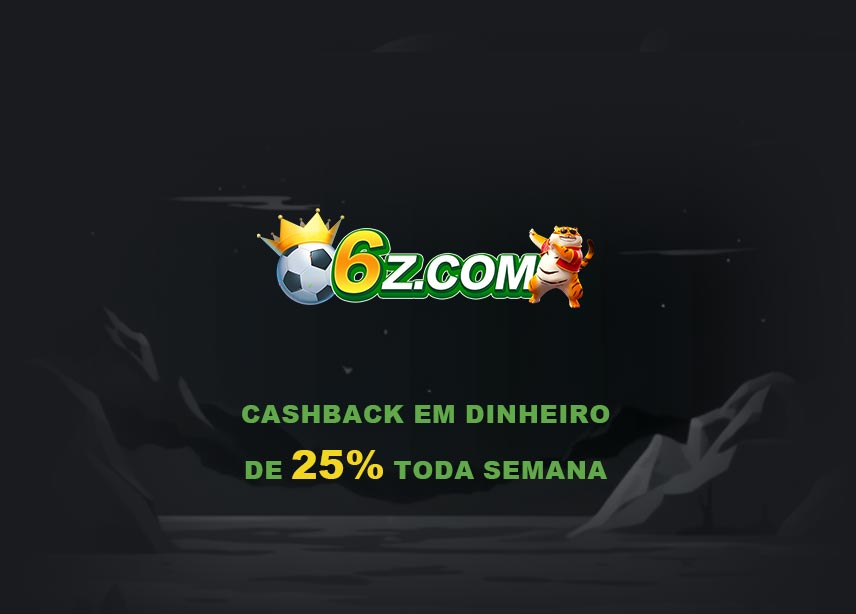
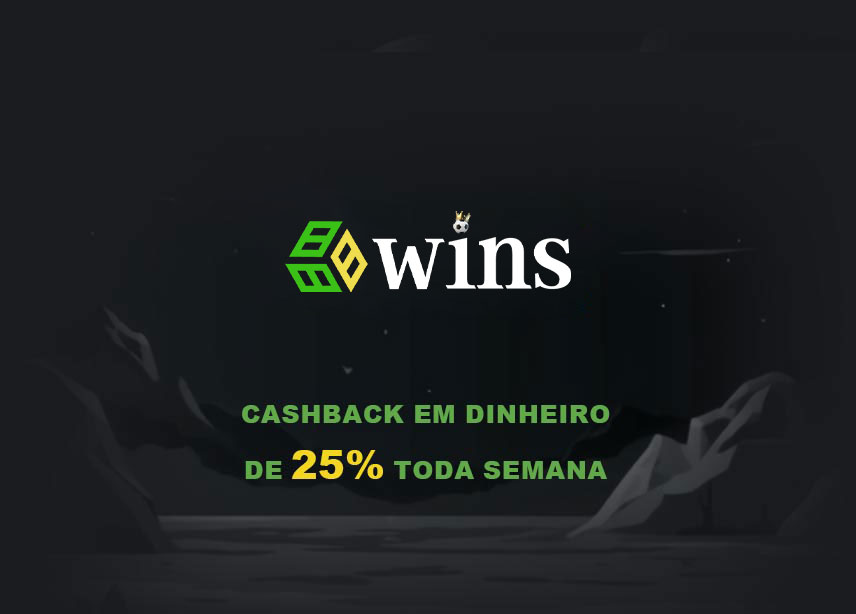
更換LOGO

Changed region(s): [[0.2734, 0.3094, 0.6986, 0.4951], [0.3645, 0.7427, 0.4556, 0.7736]]

diff --git a/src/views/HomeView.vue b/src/views/HomeView.vue
@@ -393,10 +393,10 @@ export default {
     <div class="banner2 container">
       <div class="row row-cols-2 g-1">
         <router-link class="col" to="/deposit">
-          <img src="https://6z.com/img/vip.a28e101a.jpg" class="w-100" alt="" />
+          <img src="@/assets/images/banner/banner2_01.jpg" class="w-100" alt="" />
         </router-link>
         <router-link class="col" to="/cashback">
-          <img src="https://6z.com/img/RS12.affbb8c0.jpg" class="w-100" alt="" />
+          <img src="@/assets/images/banner/banner2_02.jpg" class="w-100" alt="" />
         </router-link>
       </div>
     </div>
@@ -598,7 +598,7 @@ export default {
     </section>
     <footer class="container-fluid footer">
       <div class="bottomLogo mb-4 pt-3">
-        <img src="https://h5.wins888.club/images/logo.png" class="img-fluid" alt="" />
+        <img src="@/assets/images/logo.png" class="img-fluid" alt="" />
       </div>
       <div class="customerService mb-3">
         <template v-for="serviceItem in this.serviceList" :key="serviceItem">

diff --git a/src/components/MainMenu.vue b/src/components/MainMenu.vue
@@ -49,11 +49,6 @@ export default {
     </div>
     <div class="offcanvas-body">
       <ul class="gameLink px-4 py-2">
-        <li class="download justify-content-center">
-          <router-link to="/downloadApp">
-            <img src="https://6z.com/img/na_dl.580318eb.png" alt="" />
-          </router-link>
-        </li>
         <li>
           <router-link to="/affiliate">
             <img class="icon" src="@/assets/images/icon/menuIcon01.png" alt="" />
@@ -209,9 +204,6 @@ export default {
   line-height: 3rem;
 }
 .mainMenu .logo {
-  height: 2.5rem;
-}
-.mainMenu .gameLink .download img {
   height: 2.5rem;
 }
 .mainMenu li .icon {
